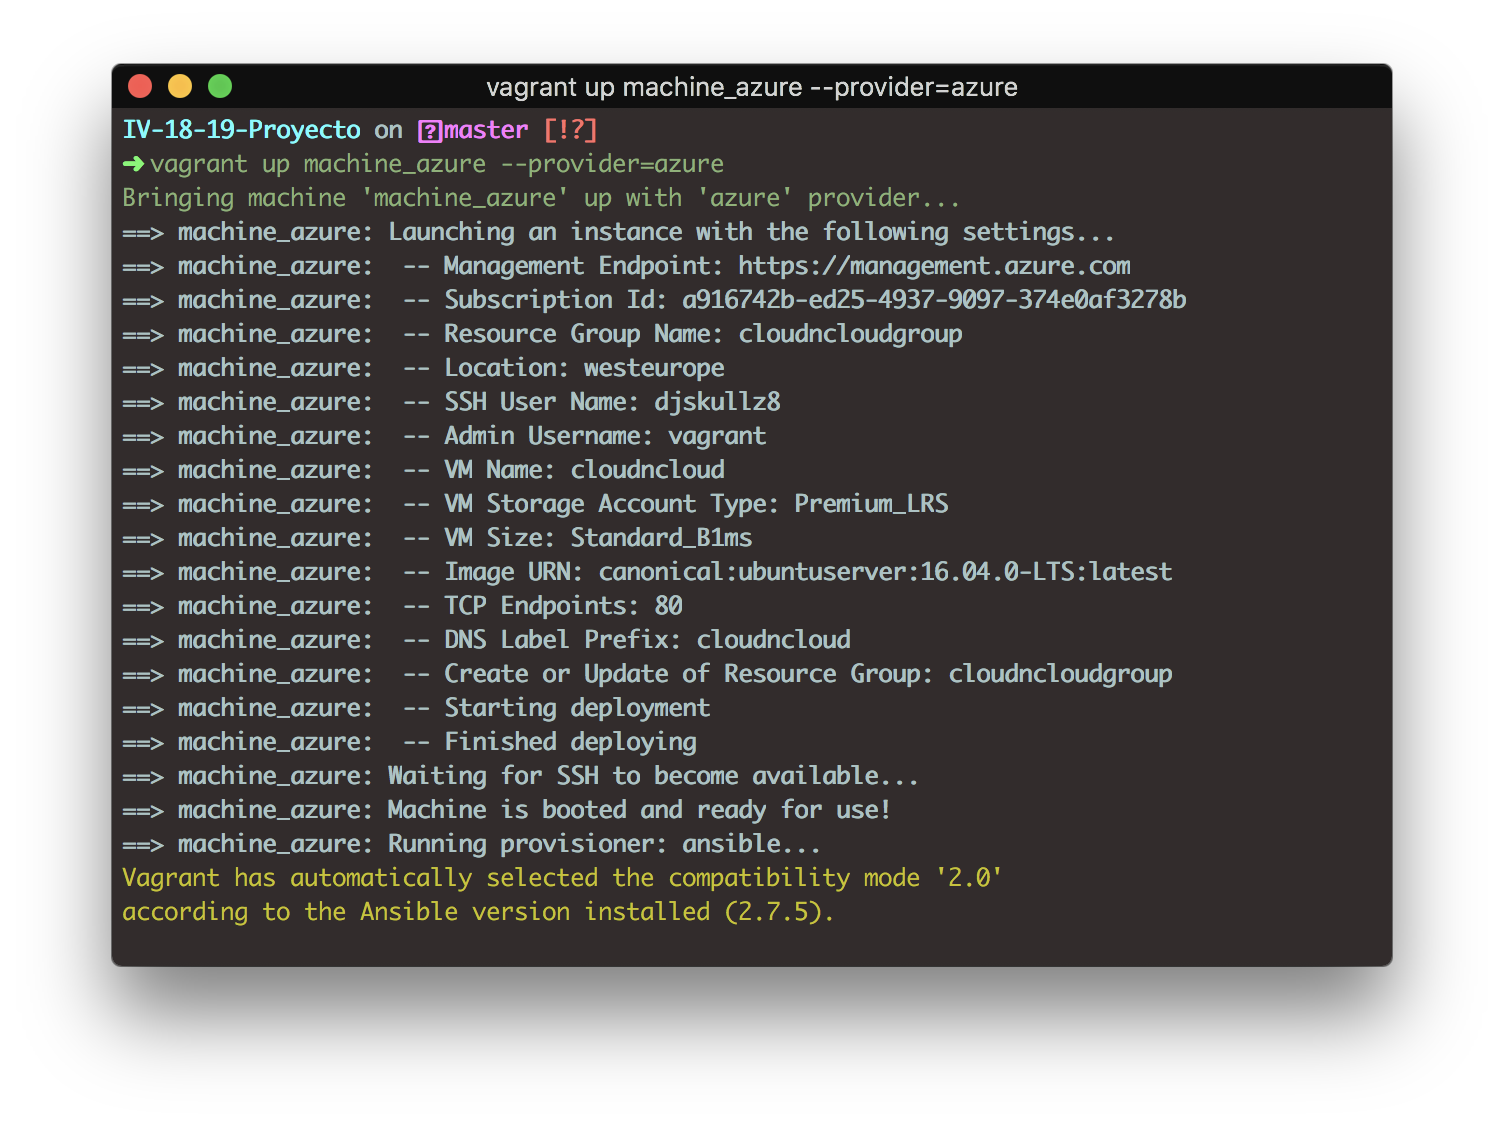
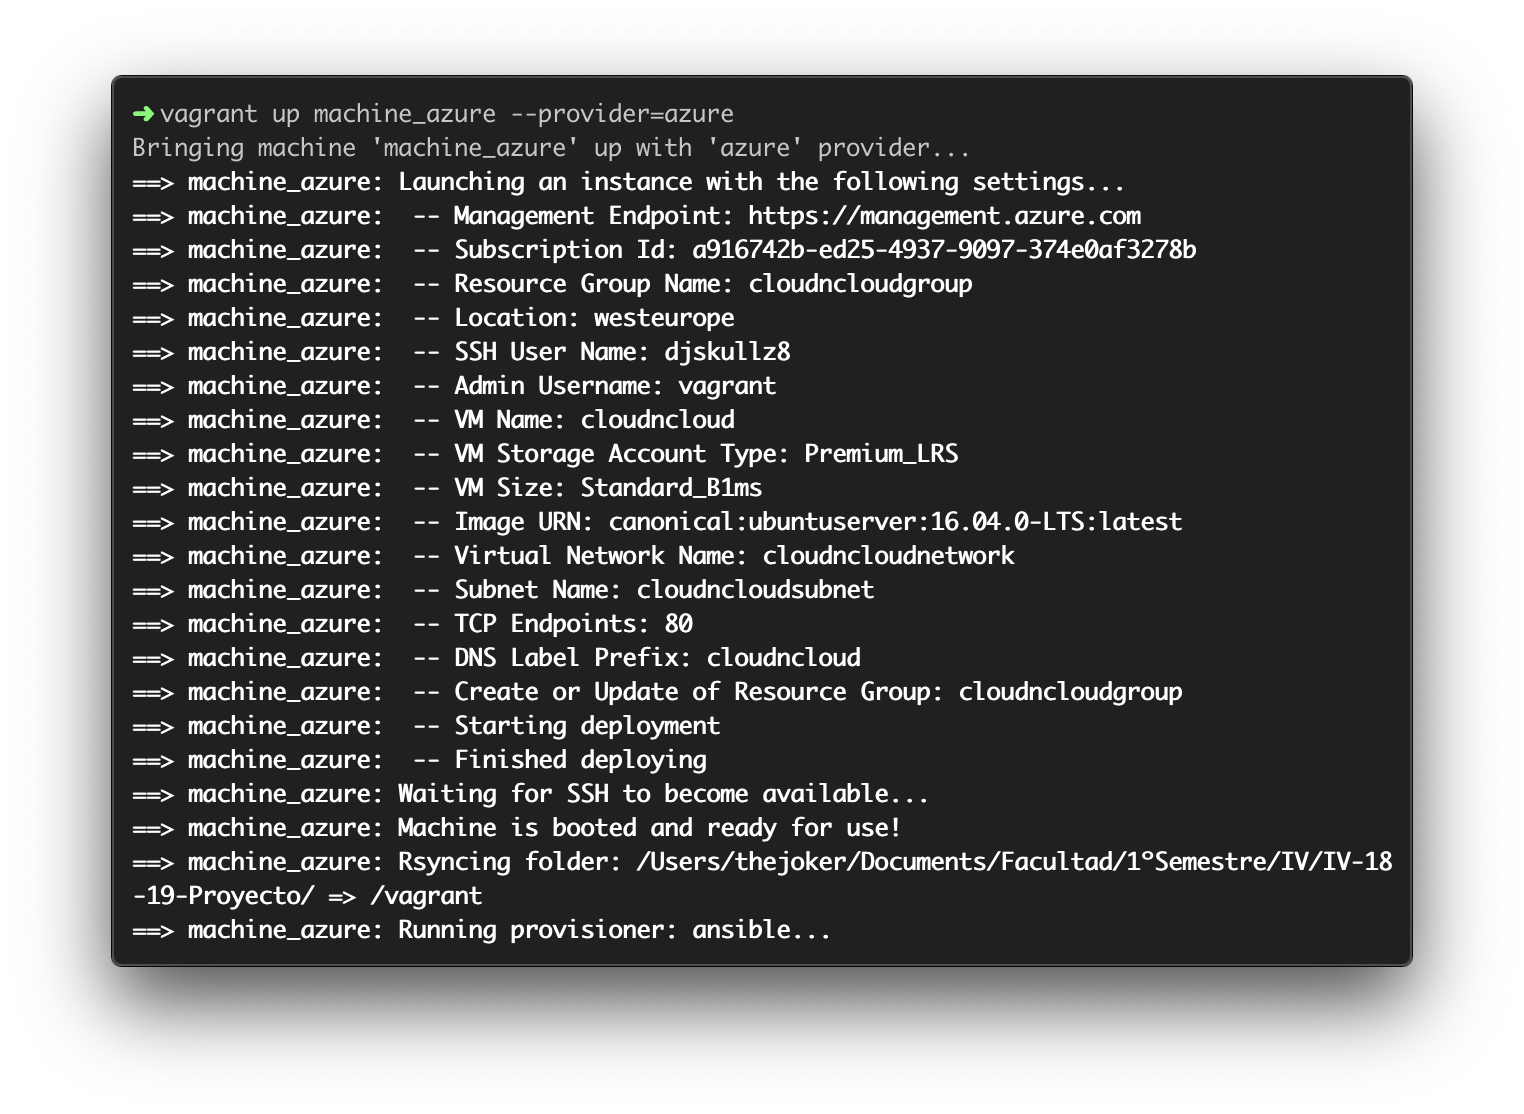
Actualizo documentacion

Changed region(s): [[0.0625, 0.0305, 0.9375, 0.9156]]

diff --git a/doc/deploytocloud.md b/doc/deploytocloud.md
@@ -125,23 +125,23 @@ Vagrant.configure("2") do |config|
 
     machine_azure.vm.provider :azure do |azure, override|
         azure.tenant_id = ENV['AZURE_TENANT_ID']
-        azure.client_id = ENV['AZURE_CLIENT_ID']
-        azure.client_secret = ENV['AZURE_CLIENT_SECRET']
-        azure.subscription_id = ENV['AZURE_SUBSCRIPTION_ID']
+            azure.client_id = ENV['AZURE_CLIENT_ID']
+            azure.client_secret = ENV['AZURE_CLIENT_SECRET']
+            azure.subscription_id = ENV['AZURE_SUBSCRIPTION_ID']
+            
+            azure.vm_size = 'Standard_B1ms'
+            azure.location = 'westeurope'
+		    azure.vm_name = 'cloudncloud'
+            azure.resource_group_name= 'cloudncloudgroup'
+            azure.tcp_endpoints = '80'
+            azure.virtual_network_name = 'cloudncloudnetwork'
+            azure.dns_name = 'cloudncloud'
+            azure.nsg_name = 'cloudncloudnsg'
+            azure.subnet_name = 'cloudncloudsubnet'
 
-        azure.vm_size = 'Standard_B1ms'
-        azure.location = 'westeurope'
-        azure.vm_name = 'cloudncloud'
-        azure.resource_group_name = 'cloudncloudgroup'
-        azure.tcp_endpoints = ['80','22']
-        azure.virtual_network_name = 'cloudncloudnetwork'
-        azure.dns_name = 'cloudncloud'
-        azure.nsg_name = 'cloudncloudnsg'
-        azure.subnet_name = 'cloudncloudsubnet'
-
-        override.vm.synced_folder ".", "/vagrant", disable: true
-        override.ssh.username = "djskullz8"
-        override.ssh.private_key_path = "~/.ssh/my-ssh-key"
+            config.vm.synced_folder ".", "/vagrant", type: "rsync"
+            override.ssh.username = "djskullz8"
+            override.ssh.private_key_path = "~/.ssh/my-ssh-key"
     end
 end
 ```
@@ -152,14 +152,13 @@ Indicamos a la máquina que los puertos 22 y 80 estan abiertos a través del 222
 - ```azure.location```: La localización de la máquina en nuestro caso es en West Europe.
 - ```azure.vm_name```: nombre de la maquina virtual.
 - ```azure.resource_group_name```: nombre del grupo de recurso.
-- ```azure.tcp_endpoints```:  las reglas de seguridad de entrada personalizadas forman parte del grupo de seguridad de la red (también conocidos como tcp endpoints), en mi caso el puerto 80 y 22.
+- ```azure.tcp_endpoints```:  las reglas de seguridad de entrada personalizadas forman parte del grupo de seguridad de la red (también conocidos como tcp endpoints), en mi caso el puerto 80.
 - ```azure.virtual_network_name```: nombre del recurso de red virtual.
 - ```azure.dns_name```: prefijo de etiqueta DNS.
 - ```azure.nsg_name```: prefijo de etiqueta de grupo de seguridad de red
 - ```azure.subnet_name```: nombre del recurso de subred de red virtual.
 
-Por último, indico que se sincronicen la carpeta actual con la de destino, mediante ```override.vm.synced_folder "origen", "destino", disable: true```.
-
+Por último, indico que se sincronicen la carpeta actual con la de destino, mediante ```config.vm.synced_folder ".", "/vagrant", type: "rsync"```.
 Lo mismo que antes, indicamos el usuario y la dirección de la clave privada de SSH.
 
 Una vez mas, la lanzamos:
@@ -329,13 +328,13 @@ En el [fabfile.py](../despliegue/fabfile.py) he creado las siguientes funciones:
 Orden para desplegar en la máquina de Azure:
 
 ```bash
-fab -f despliegue/fabfile.py -H djskullz8@23.97.177.83 <Funciones>
+fab -f despliegue/fabfile.py -H djskullz8@ip_machine_azure <Funciones>
 ```
 
 Orden para desplegar en la máquina de Google:
 
 ```bash
-fab -f despliegue/fabfile.py -H djskullz8@35.225.49.80 <Funciones>
+fab -f despliegue/fabfile.py -H djskullz8@ip_machine_google <Funciones>
 ```
 
 Enlaces de interés
